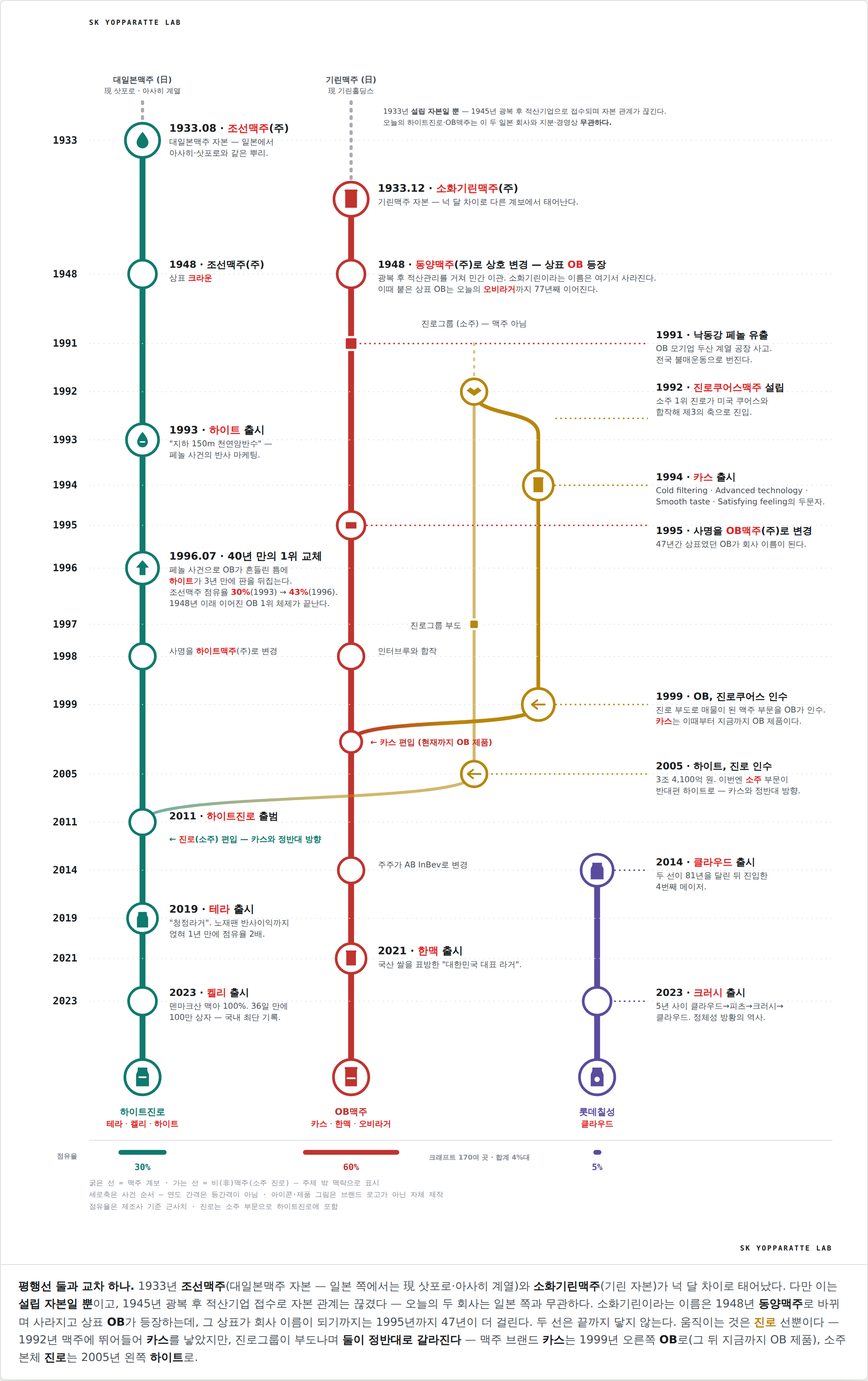
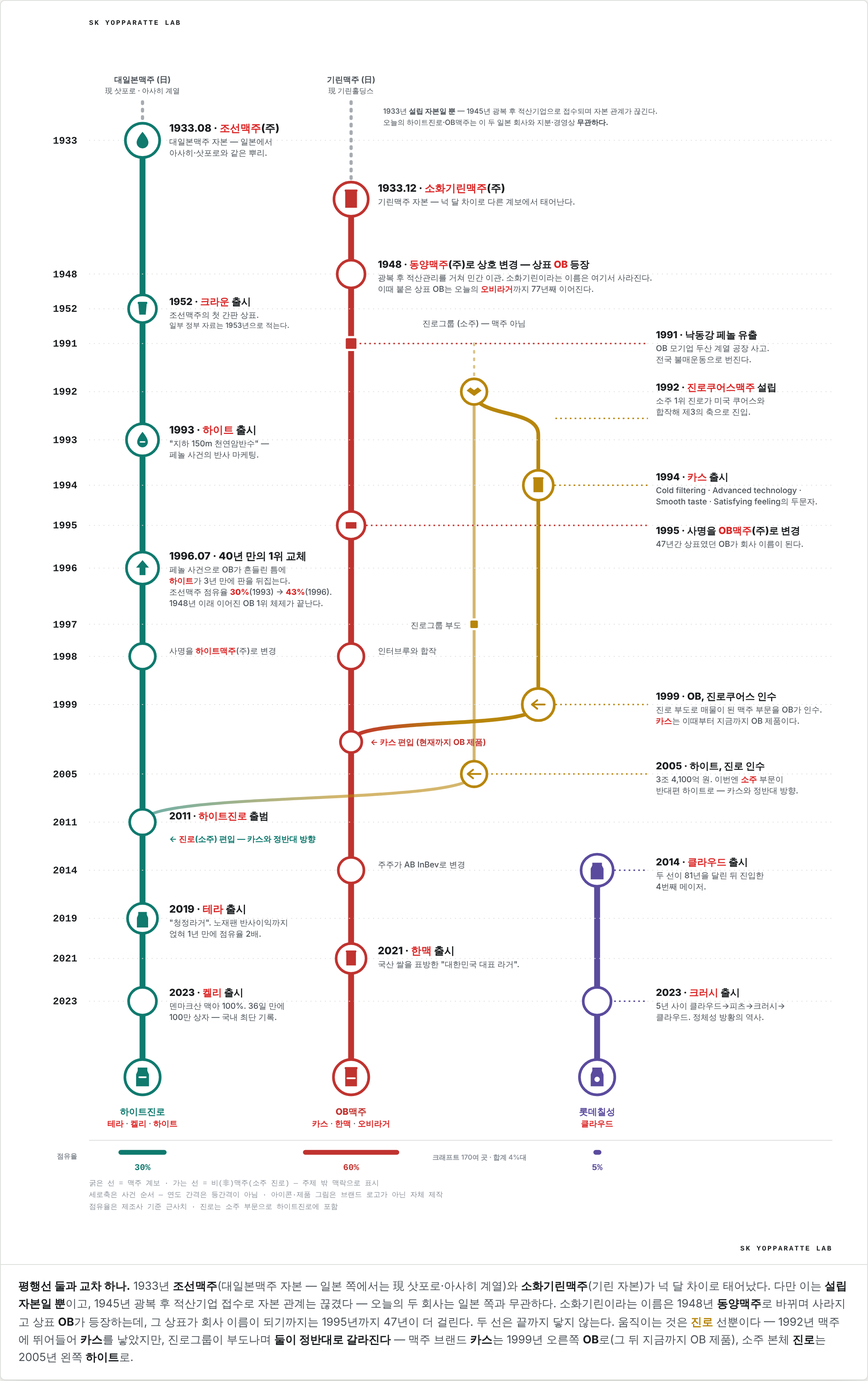
교차검증(2026-11-20) 반영: 오리온 인수 주체·크라운 연도·스텔라 국내생산 등 정정
필수 수정
- 오리온 2019: '아사히 그룹 홀딩스·노무라 컨소시엄' → 노무라홀딩스·칼라일 공동 인수,
  아사히와는 자본·유통 제휴만 유지, 2025.9 도쿄증시 프라임 상장. 오리온→아사히
  흡수를 뜻하던 화살표 삭제, 점유율 각주의 '아사히 산하' → '독립 법인'
- 스텔라 아르투아: '전환 근거 없음' 정정 처리 철회 → 2022.7 오비맥주 광주공장
  일부 물량 라이선스 생산 확인, 용기·시점별 라벨 확인 필요(검증표 '부분 확인')

권장 보완
- 크라운: 1948 조선맥주 항목에서 분리해 1952 출시 노드로(1953 표기 자료 병기)
- 필스너 우르켈·코젤: '철수' → 기존 수입사 2026.12.31 판매 종료, 재수입 미정
- 삿포로 650ml: 국내 B2B 상품정보 베트남 표기 확인(검증표 '확인')
- 일본 점유율 각주: 2025년 중반 기준, 2025년 말 아사히 사이버 공격 변동 제외

함께 고친 것
- 1977 삿포로 흑라벨 노드의 '샿포로' 오타(U+C0FF) → '삿포로', 우측 끝에 닿던 줄 재배치
- export.mjs가 특정 Chromium 경로를 하드코딩하지 않도록 수정
- SVG·PNG 재생성, 통합본 재조립, 출처 4건 추가

Claude-Session: https://claude.ai/code/session_01KUBqCbH6Pr7kL3zk5exDHD

diff --git a/origin/korea-import-beer.html b/origin/korea-import-beer.html
@@ -121,9 +121,9 @@
   <div class="ovc"><h3>① 국내 라이선스 생산</h3><p class="how">표시사항: 제조원 ○○공장</p>
     <ul><li><b>버드와이저</b> — 오비맥주</li><li><b>호가든</b> — 오비맥주 광주</li><li><b>기린 이치방 시보리 캔</b> — 하이트진로 전주 (2026.10~)</li><li>블루걸 — 처음부터 한국산(역수입)</li></ul></div>
   <div class="ovc imp"><h3>② 해외 완제품 수입</h3><p class="how">표시사항: 원산지 국가명</p>
-    <ul><li>아사히 · 삿포로 · 에비스</li><li>칭따오 · 하얼빈 · 기네스 · 하이네켄</li><li>스텔라 · 코로나 · 미켈롭 울트라 · 산토리</li><li>칼스버그 · 밀러 · 블루문 · 1664</li><li>파울라너 · 에딩거 · <s>필스너 우르켈 · 코젤</s>(연말 철수)</li></ul></div>
+    <ul><li>아사히 · 삿포로 · 에비스</li><li>칭따오 · 하얼빈 · 기네스 · 하이네켄</li><li>스텔라(2022~ 일부 광주 생산 이력) · 코로나 · 미켈롭 울트라 · 산토리</li><li>칼스버그 · 밀러 · 블루문 · 1664</li><li>파울라너 · 에딩거 · 필스너 우르켈 · 코젤(기존 수입사 2026.12.31 판매 종료 예정)</li></ul></div>
   <div class="ovc third"><h3>③ 제3국 생산 수입</h3><p class="how">수입품이지만 브랜드 본국산이 아님</p>
-    <ul><li><b>1664 블랑</b> — 폴란드</li><li><b>삿포로 650ml</b> — 베트남 공장 생산(국내분은 라벨 확인)</li><li>중국 ODM 저가 수입맥주</li></ul></div>
+    <ul><li><b>1664 블랑</b> — 폴란드</li><li><b>삿포로 650ml</b> — 베트남(국내 B2B 상품정보 표기)</li><li>중국 ODM 저가 수입맥주</li></ul></div>
 </div>
 
 
@@ -176,8 +176,8 @@
   <div class="brand imp"><h3>하이네켄 <span class="who">· 하이네켄코리아</span></h3>
     <ul><li>국내 편의점 캔의 원산지가 네덜란드로 표기된 사례가 있다. 베트남 생산분이 들어오는지는 확인하지 못했다.</li></ul></div>
   <div class="brand imp"><h3>스텔라 아르투아 <span class="who">· 오비맥주</span></h3>
-    <ul><li>2025년 11월 보도에서도 '오비맥주가 수입·유통하는 브랜드'로 소개됐다.</li>
-    <li>국내 생산은 2020년에 검토한다는 보도만 있었고, 실제로 전환했다는 근거는 찾지 못했다.</li></ul></div>
+    <ul><li>2022년 7월 오비맥주가 <b>광주공장</b>에서 일부 물량(당시 국내 물량의 약 40%)을 라이선스 생산하기 시작했다.</li>
+    <li>2025년 11월 보도에서는 '오비맥주가 수입·유통하는 브랜드'로도 소개됐다. 같은 브랜드에 국내 생산분과 수입분이 섞여 있을 수 있어 용기·유통 시점별로 라벨을 확인해야 한다.</li></ul></div>
   <div class="brand imp"><h3>오비맥주 수입 포트폴리오</h3>
     <ul><li>코로나, 미켈롭 울트라, 산토리 프리미엄 몰츠, 구스아일랜드, 하얼빈, 레페 등이 있다.</li>
     <li>미켈롭 울트라는 2024년 골프장 한정 판매로 시작해 같은 해 이마트로 판로를 넓혔다.</li></ul></div>
@@ -190,8 +190,9 @@
     <li><b>에딩거</b>: 아영FBC가 수입한다(2023년 기준).</li></ul></div>
 </div>
 <div class="note alert">
-  <b>철수 예정 — 필스너 우르켈 · 코젤.</b> 아사히그룹 계열 수입사 <b>에이이브랜드코리아</b>가
-  다음 달 31일을 끝으로 두 브랜드의 국내 판매를 종료한다고 2026년 11월 6일 보도됐다. 보도 날짜로 보면 2026년 12월 31일이다.
+  <b>기존 수입사 판매 종료 예정 — 필스너 우르켈 · 코젤.</b> 아사히그룹 계열 수입사 <b>에이이브랜드코리아</b>가
+  <b>2026년 12월 31일</b>을 끝으로 두 브랜드의 판매를 종료한다고 2026년 11월 6일 보도됐다.
+  브랜드의 영구 철수가 아니라 <b>기존 수입사의 공급 중단</b>이며, 다른 수입사를 통한 재수입 여부는 아직 정해지지 않았다.
   편의점에서는 재고 정리 할인이 진행 중이다.
 </div>
 
@@ -202,7 +203,7 @@
     <li>베트남·중국 생산분이 국내에 들어온다는 근거는 찾지 못했다.</li></ul></div>
   <div class="brand third"><h3>삿포로 실버컵 650ml <span class="who">· 일본 브랜드</span></h3>
     <ul><li>삿포로 베트남 공장(롱안성 득호아)이 650ml 캔을 생산한다. 싱가포르, 호주, 미국 판매분의 원산지가 베트남으로 확인된다.</li>
-    <li>국내 유통분도 그럴 가능성이 높다. 다만 이번에 국내 라벨로 직접 확인하지는 못했다.</li></ul></div>
+    <li>국내 주류 B2B 유통 플랫폼 상품 정보에서도 원산지가 <b>베트남</b>으로 표기돼 있다. 다만 유통 시점·물량별로 라벨 확인을 권한다.</li></ul></div>
   <div class="brand third"><h3>ODM 저가 수입맥주</h3>
     <ul><li>제주맥주 대표는 "외산 맥주들이 중국에서 ODM 방식으로 생산돼 국내에 싸게 공급되고 있다"고 말했다(2026년 2월). 특정 브랜드를 지목하지는 않았다.</li></ul></div>
   <div class="brand third"><h3>스텔라의 본국 이탈</h3>
@@ -243,16 +244,16 @@
 <tr><td><b>버드와이저</b> 330병·355·500캔 국내 생산</td><td><span class="tag v-part">부분 확인</span></td><td>355·500 캔, 500 병, 생맥주는 국내 생산으로 확인된다. '330ml 병'은 근거를 찾지 못했다.</td></tr>
 <tr><td>버드와이저 473·740ml 미국 직수입</td><td><span class="tag v-unk">미확인</span></td><td>2017~2019년에 캔을 미국에서 수입한 이력은 있다. 현재 제조국은 라벨을 봐야 한다.</td></tr>
 <tr><td><b>호가든</b> 오리지널 국내, 로제 등 직수입</td><td><span class="tag v-part">부분 확인</span></td><td>오리지널 국내 생산은 확인된다. 로제 등 특수 라인업이 지금도 수입인지는 확인하지 못했다.</td></tr>
-<tr><td><b>스텔라</b> 2022년부터 500캔 광주공장 생산</td><td><span class="tag v-fix">정정</span></td><td>전환했다는 보도를 찾지 못했다. 2025년 11월에도 '수입·유통 브랜드'로 소개됐다. 2020년의 '검토' 보도만 있다.</td></tr>
+<tr><td><b>스텔라</b> 2022년부터 500캔 광주공장 생산</td><td><span class="tag v-part">부분 확인</span></td><td>2022년 7월 오비맥주 광주공장이 일부 물량(당시 국내 물량의 약 40%) 라이선스 생산을 시작한 것은 확인된다. 2025년 11월 보도에서는 '수입·유통 브랜드'로도 소개돼, 용기·유통 시점별 라벨 확인이 필요하다. '500캔'으로 특정한 근거는 찾지 못했다.</td></tr>
 <tr><td>스텔라 740ml 미국 공장분</td><td><span class="tag v-unk">미확인</span></td><td>미국 내 생산 이전(2021)은 사실이다. 그 물량이 한국에 오는지는 확인하지 못했다.</td></tr>
 <tr><td><b>구스 아일랜드</b> IPA·세션 IPA 국내 생산</td><td><span class="tag v-unk">미확인</span></td><td>오비맥주 자회사가 운영하는 '구스아일랜드 브루하우스 서울'이 2019년 구스 IPA 캔을, 2020년 덕덕구스 세션 IPA(매장 레시피)를 출시했다. 생산지 표기는 확인하지 못했다.</td></tr>
 <tr><td><b>벡스</b> 라이선스·수입 병행</td><td><span class="tag v-unk">미확인</span></td><td>국내 생산 근거를 찾지 못했다.</td></tr>
 <tr><td><b>1664 블랑</b> 폴란드·베트남·중국 생산, 하이트진로 유통</td><td><span class="tag v-part">부분 확인</span></td><td>폴란드와 하이트진로 유통(2013~)은 확인된다. 베트남·중국은 근거가 없다.</td></tr>
 <tr><td><b>블루문</b> 베트남산 주력, 골든블루 유통</td><td><span class="tag v-part">부분 확인</span></td><td>골든블루 인터내셔널 유통(2021.11~)은 확인된다. 베트남 생산은 근거가 없다.</td></tr>
-<tr><td><b>삿포로</b> 650ml 실버컵 베트남산</td><td><span class="tag v-part">부분 확인</span></td><td>베트남 공장의 650ml 생산은 확인된다. 국내 유통분의 라벨은 확인하지 못했다.</td></tr>
+<tr><td><b>삿포로</b> 650ml 실버컵 베트남산</td><td><span class="tag v-ok">확인</span></td><td>베트남 공장의 650ml 생산에 더해, 국내 B2B 유통 플랫폼 상품 정보에 원산지 베트남이 표기돼 있다. 유통 시점·물량별 라벨 확인은 권장.</td></tr>
 <tr><td><b>하이네켄 · 타이거 · 산미구엘</b> 베트남 거점분</td><td><span class="tag v-unk">미확인</span></td><td>하이네켄은 국내 캔의 원산지가 네덜란드로 표기된 사례가 있다.</td></tr>
 <tr><td><b>아사히</b> 일본 본토 직수입</td><td><span class="tag v-ok">확인</span></td><td>생맥주캔은 하카타 공장 생산분이라고 알려져 있다.</td></tr>
-<tr><td><b>필스너 우르켈 · 코젤</b> 수입사 비어케이</td><td><span class="tag v-fix">정정</span></td><td>수입사는 <b>에이이브랜드코리아</b>(아사히 계열)다. <b>2026년 12월 31일에 국내 판매를 종료할 예정</b>이다.</td></tr>
+<tr><td><b>필스너 우르켈 · 코젤</b> 수입사 비어케이</td><td><span class="tag v-fix">정정</span></td><td>수입사는 <b>에이이브랜드코리아</b>(아사히 계열)다. 기존 수입사가 <b>2026년 12월 31일 판매를 종료할 예정</b>이다. 브랜드 철수가 아니라 수입사 공급 중단이며, 타사 재수입 여부는 미정이다.</td></tr>
 <tr><td><b>파울라너</b> 하이트진로</td><td><span class="tag v-fix">정정</span></td><td>2026년 1월 1일부터 <b>하이네켄코리아</b>가 유통한다.</td></tr>
 <tr><td><b>에딩거</b> 비어케이</td><td><span class="tag v-fix">정정</span></td><td>수입사는 <b>아영FBC</b>다(2023년 기준).</td></tr>
 <tr><td><b>칭따오</b> 비어케이, 중국 직수입</td><td><span class="tag v-ok">확인</span></td><td>—</td></tr>
@@ -279,6 +280,10 @@
   <li>나무위키, 「버드와이저」 — https://namu.wiki/w/버드와이저</li>
   <li>위키트리, 스텔라 아르투아 '퓨어 골드 바' 2026.11 — https://www.wikitree.co.kr/articles/1173316</li>
   <li>위키트리, 필스너 우르켈·코젤 국내 판매 종료 2026.11.06 — https://www.wikitree.co.kr/articles/1172417</li>
+  <li>뉴스1, 필스너 우르켈·코젤 기존 수입사 판매 종료 — https://www.news1.kr/industry/distribution/6353159</li>
+  <li>뉴데일리 경제, 오비맥주 스텔라 아르투아 광주공장 생산 2022.07 — https://biz.newdaily.co.kr/site/data/html/2022/07/11/2022071100041.html</li>
+  <li>CEO스코어데일리, 스텔라 아르투아 국내 생산 2022.07 — https://www.ceoscoredaily.com/page/view/2022072817122398124</li>
+  <li>벨루가(B2B), 삿포로 프리미엄 실버컵 650ml 상품 정보(원산지 베트남) — https://business.veluga.kr/drink/19897/23080/</li>
   <li>PR Newswire/더팀스, 파울라너 한국 유통사 하이네켄코리아로 변경 2025.11.25 — https://www.theteams.kr/news/detail/5061</li>
   <li>뉴스핌, 골든블루 밀러·블루문 독점 판매 2021.11 — https://newspim.com/news/view/20211123000716</li>
   <li>메트로신문, 하이트진로 1664블랑 생맥주 판로 확대 2019.05 — https://www.metroseoul.co.kr/article/2019053000074</li>

diff --git a/genealogy/beer-genealogy.html b/genealogy/beer-genealogy.html
@@ -98,12 +98,7 @@
   <p class="lead">여섯 혈통의 탄생, 1906년의 거대 합병, 1949년 GHQ의 강제 분할, 그리고 후발 주자의 합류.
   선이 모이면 합병, 갈라지면 분할이다. 각 선 위에는 그 회사를 끌어올린 <b>기념비적 제품 출시</b>를, 맨 아래에는 오늘의 대표 제품과 <b>맛의 결</b>, 시장 점유율을 두었다.</p>
   <figure><div class="canvas">
-<svg viewBox="0 -46 1340 2435" role="img" aria-label="일본 맥주 6개 회사 계보도. 기린은 1870년부터 끊기지 않는 독자 노선을 유지한다. 삿포로·에비스·아사히는 1906년 대일본맥주로 합병되어 회색 줄기가 되었다가 1949년 GHQ 명령으로 삿포로와 아사히 둘로 분할된다. 에비스는 1943년 상표가 소멸했다가 1971년 삿포로 산하로 부활한다. 산토리는 1963년, 오리온은 1957년에 합류하며 2019년 오리온은 아사히 산하로 들어간다. 여섯 계보는 각자의 대표 제품으로 이어진다.">
-<defs>
-  <marker id="ar" viewBox="0 0 10 10" refX="8" refY="5" markerWidth="6" markerHeight="6" orient="auto-start-reverse">
-    <path d="M0 1 L9 5 L0 9 z" fill="var(--orion)"/>
-  </marker>
-</defs>
+<svg viewBox="0 -46 1340 2435" role="img" aria-label="일본 맥주 6개 회사 계보도. 기린은 1870년부터 끊기지 않는 독자 노선을 유지한다. 삿포로·에비스·아사히는 1906년 대일본맥주로 합병되어 회색 줄기가 되었다가 1949년 GHQ 명령으로 삿포로와 아사히 둘로 분할된다. 에비스는 1943년 상표가 소멸했다가 1971년 삿포로 산하로 부활한다. 산토리는 1963년, 오리온은 1957년에 합류한다. 오리온은 2019년 노무라홀딩스·칼라일 그룹에 매각되고 2025년 상장해 독립 법인으로 남는다. 여섯 계보는 각자의 대표 제품으로 이어진다.">
 
 <!-- ═══ 리본 ═══ -->
 <!-- 기린 : 끊기지 않는 단일선 -->
@@ -125,8 +120,6 @@
 <!-- 오리온 -->
 <path class="rib o" d="M980 1080 L980 2010"/>
 <!-- 2019 지분 인수 -->
-<path d="M968 1910 L706 1910" fill="none" stroke="var(--orion)" stroke-width="3.5"
-      stroke-dasharray="2 9" stroke-linecap="round" marker-end="url(#ar)"/>
 
 <!-- ═══ 연도 눈금 ═══ -->
 <line class="grid" x1="150" y1="200" x2="1310" y2="200"/><text class="yr" x="128" y="206" text-anchor="end">1870</text>
@@ -260,10 +253,10 @@
   <rect x="-8" y="-3" width="16" height="8" fill="var(--panel)"/>
 </g>
 <path d="M462 1470 H1065" stroke="var(--sapporo)" stroke-width="2.4" stroke-dasharray="3 6" fill="none"/>
-<text class="hd fs" x="1075" y="1450" style="font-size:16.5px">1977 · 샿포로 흑라벨</text>
-<text class="bd" x="1075" y="1470">「샿포로 びん生」으로 발매. 검은 라벨에서</text>
-<text class="bd" x="1075" y="1488">온 애칭 ‘쿠로라벨’이 굳어져 1989년</text>
-<text class="bd" x="1075" y="1506">정식 상품명이 된다.</text>
+<text class="hd fs" x="1075" y="1450" style="font-size:16.5px">1977 · 삿포로 흑라벨</text>
+<text class="bd" x="1075" y="1470">「삿포로 びん生」으로 발매.</text>
+<text class="bd" x="1075" y="1488">검은 라벨에서 온 애칭 ‘쿠로라벨’이</text>
+<text class="bd" x="1075" y="1506">굳어져 1989년 정식 상품명이 된다.</text>
 
 <!-- ═══ 1987 수퍼드라이 ═══ -->
 <circle class="disc" cx="690" cy="1580" r="26" stroke="var(--asahi)"/>
@@ -302,15 +295,15 @@
 <text class="bd" x="1075" y="1800">맥아 100% 프리미엄 노선. 가장 늦게</text>
 <text class="bd" x="1075" y="1818">합류한 산토리가 고급 시장을 파고든다.</text>
 
-<!-- ═══ 2019 오리온 인수 : 악수 ═══ -->
+<!-- ═══ 2019 오리온 매각 : 악수 ═══ -->
 <circle class="disc" cx="980" cy="1910" r="26" stroke="var(--orion)"/>
 <g transform="translate(980,1910)">
   <path d="M-13 -2 l7 -6 6 5 6 -5 7 6 -13 10 z" fill="var(--orion)"/>
 </g>
-<text class="hd fo" x="1075" y="1894" style="font-size:16.5px">2019 · 아사히–오리온</text>
-<text class="bd" x="1075" y="1914">아사히 그룹 홀딩스·노무라</text>
-<text class="bd" x="1075" y="1932">컨소시엄이 오리온 지분 인수.</text>
-<text class="bd" x="1075" y="1950">법인은 존속한다.</text>
+<text class="hd fo" x="1075" y="1894" style="font-size:16.5px">2019 · 오리온 매각</text>
+<text class="bd" x="1075" y="1914">노무라홀딩스·칼라일이 공동 인수.</text>
+<text class="bd" x="1075" y="1932">아사히와는 자본·유통 제휴만 유지.</text>
+<text class="bd" x="1075" y="1950">2025년 9월 도쿄증시 프라임 상장.</text>
 
 <!-- ═══ 하단 : 대표 제품 ═══ -->
 <circle class="disc" cx="230" cy="2041" r="33" stroke="var(--kirin)"/>
@@ -373,7 +366,8 @@
 <rect x="978.7" y="2233" width="2.6" height="9" rx="4.5" fill="var(--orion)"/>
 <text class="shp fo" x="980" y="2269" text-anchor="middle">1%</text>
 <text class="axn" x="150" y="2309">세로축은 사건 순서 — 연도 간격은 등간격이 아님 · 아이콘·제품 그림은 브랜드 로고가 아닌 자체 제작</text>
-<text class="axn" x="150" y="2329">점유율은 맥주계 음료(ビール類) 기준 근사치 · 에비스는 삿포로 실적에 포함 · 오리온은 아사히 산하지만 별도 법인</text>
+<text class="axn" x="150" y="2329">점유율은 맥주계 음료(ビール類) 기준 2025년 중반 근사치 · 에비스는 삿포로 실적에 포함</text>
+<text class="axn" x="150" y="2349">2025년 말 아사히 사이버 공격에 따른 일시적 변동 제외 · 오리온은 독립 법인(아사히와 자본·유통 제휴, 2025년 상장)</text>
 
 <text class="svglab" x="150" y="-16" style="font-size:13px">SK YOPPARATTE LAB</text>
 <text class="svglab" x="1310" y="2379" text-anchor="end" style="font-size:13px">SK YOPPARATTE LAB</text>
@@ -407,7 +401,7 @@
   <p class="lead">서로 다른 일본 자본에서 출발한 두 축은 90년간 한 번도 만나지 않는다.
   움직이는 것은 중간에 끼어든 제3의 선, <b>진로</b>뿐이다.</p>
   <figure><div class="canvas">
-<svg viewBox="0 -46 1590 2332" role="img" aria-label="한국 맥주 계보도. 1933년 조선맥주와 소화기린맥주가 서로 다른 일본 자본으로 설립되고, 1948년 소화기린은 동양맥주로 바뀌며 상표 OB가 등장한 뒤 1995년 사명까지 OB맥주가 된다. 두 선은 90년간 만나지 않는다. 1992년 진로쿠어스가 세워져 1994년 카스를 내지만 1999년 카스는 OB로, 2005년 진로 자신은 하이트로 넘어가며 두 선이 교차한다. 롯데는 2014년 클라우드로 진입한다.">
+<svg viewBox="0 -46 1590 2332" role="img" aria-label="한국 맥주 계보도. 1933년 조선맥주와 소화기린맥주가 서로 다른 일본 자본으로 설립되고, 1948년 소화기린은 동양맥주로 바뀌며 상표 OB가 등장한 뒤 1995년 사명까지 OB맥주가 된다. 조선맥주는 1952년 크라운을 출시한다. 두 선은 90년간 만나지 않는다. 1992년 진로쿠어스가 세워져 1994년 카스를 내지만 1999년 카스는 OB로, 2005년 진로 자신은 하이트로 넘어가며 두 선이 교차한다. 롯데는 2014년 클라우드로 진입한다.">
 <defs>
 <linearGradient id="g99" x1="990" y1="0" x2="640" y2="0" gradientUnits="userSpaceOnUse">
   <stop offset="0" stop-color="var(--jinro)"/><stop offset="0.45" stop-color="var(--jinro)"/><stop offset="1" stop-color="var(--ob)"/>
@@ -433,6 +427,7 @@
 <path class="rib t" d="M1100 1565 L1100 1920"/>
 <line class="grid" x1="150" y1="200" x2="1540" y2="200"/><text class="yr" x="128" y="206" text-anchor="end">1933</text>
 <line class="grid" x1="150" y1="450" x2="1540" y2="450"/><text class="yr" x="128" y="456" text-anchor="end">1948</text>
+<line class="grid" x1="150" y1="515" x2="1540" y2="515"/><text class="yr" x="128" y="521" text-anchor="end">1952</text>
 <line class="grid" x1="150" y1="580" x2="1540" y2="580"/><text class="yr" x="128" y="586" text-anchor="end">1991</text>
 <line class="grid" x1="150" y1="670" x2="1540" y2="670"/><text class="yr" x="128" y="676" text-anchor="end">1992</text>
 <line class="grid" x1="150" y1="760" x2="1540" y2="760"/><text class="yr" x="128" y="766" text-anchor="end">1993</text>
@@ -460,10 +455,12 @@
 <text class="hd" x="690" y="296">1933.12 · <tspan class="pr">소화기린맥주</tspan>(주)</text>
 <text class="bd" x="690" y="320">기린맥주 자본 — 넉 달 차이로 다른 계보에서 태어난다.</text>
 
-<circle class="disc" cx="250" cy="450" r="26" stroke="var(--hite)"/>
 <circle class="disc" cx="640" cy="450" r="26" stroke="var(--ob)"/>
-<text class="hd" x="300" y="438" style="font-size:18.2px">1948 · 조선맥주(주)</text>
-<text class="bd" x="300" y="462">상표 <tspan class="pr">크라운</tspan></text>
+<circle class="disc" cx="250" cy="515" r="26" stroke="var(--hite)"/>
+<g transform="translate(250,515)"><path d="M-8 -11 h16 l-2 22 h-12 z" fill="var(--hite)"/><rect x="-9" y="-13" width="18" height="4" rx="1.5" fill="var(--hite)"/></g>
+<text class="hd" x="300" y="508" style="font-size:18.2px">1952 · <tspan class="pr">크라운</tspan> 출시</text>
+<text class="bd" x="300" y="532">조선맥주의 첫 간판 상표.</text>
+<text class="bd" x="300" y="551" style="font-size:13.5px">일부 정부 자료는 1953년으로 적는다.</text>
 <text class="hd" x="690" y="438" style="font-size:18.2px">1948 · <tspan class="pr">동양맥주</tspan>(주)로 상호 변경 — 상표 <tspan class="pr">OB</tspan> 등장</text>
 <text class="bd" x="690" y="462">광복 후 적산관리를 거쳐 민간 이관. 소화기린이라는 이름은 여기서 사라진다.</text>
 <text class="bd" x="690" y="483">이때 붙은 상표 OB는 오늘의 <tspan class="pr">오비라거</tspan>까지 77년째 이어진다.</text>

diff --git a/genealogy/jp-infographic.html b/genealogy/jp-infographic.html
@@ -61,12 +61,7 @@
 
 <figure>
 <div class="canvas">
-<svg viewBox="0 -46 1340 2435" role="img" aria-label="일본 맥주 6개 회사 계보도. 기린은 1870년부터 끊기지 않는 독자 노선을 유지한다. 삿포로·에비스·아사히는 1906년 대일본맥주로 합병되어 회색 줄기가 되었다가 1949년 GHQ 명령으로 삿포로와 아사히 둘로 분할된다. 에비스는 1943년 상표가 소멸했다가 1971년 삿포로 산하로 부활한다. 산토리는 1963년, 오리온은 1957년에 합류하며 2019년 오리온은 아사히 산하로 들어간다. 여섯 계보는 각자의 대표 제품으로 이어진다.">
-<defs>
-  <marker id="ar" viewBox="0 0 10 10" refX="8" refY="5" markerWidth="6" markerHeight="6" orient="auto-start-reverse">
-    <path d="M0 1 L9 5 L0 9 z" fill="var(--orion)"/>
-  </marker>
-</defs>
+<svg viewBox="0 -46 1340 2435" role="img" aria-label="일본 맥주 6개 회사 계보도. 기린은 1870년부터 끊기지 않는 독자 노선을 유지한다. 삿포로·에비스·아사히는 1906년 대일본맥주로 합병되어 회색 줄기가 되었다가 1949년 GHQ 명령으로 삿포로와 아사히 둘로 분할된다. 에비스는 1943년 상표가 소멸했다가 1971년 삿포로 산하로 부활한다. 산토리는 1963년, 오리온은 1957년에 합류한다. 오리온은 2019년 노무라홀딩스·칼라일 그룹에 매각되고 2025년 상장해 독립 법인으로 남는다. 여섯 계보는 각자의 대표 제품으로 이어진다.">
 
 <!-- ═══ 리본 ═══ -->
 <!-- 기린 : 끊기지 않는 단일선 -->
@@ -88,8 +83,6 @@
 <!-- 오리온 -->
 <path class="rib o" d="M980 1080 L980 2010"/>
 <!-- 2019 지분 인수 -->
-<path d="M968 1910 L706 1910" fill="none" stroke="var(--orion)" stroke-width="3.5"
-      stroke-dasharray="2 9" stroke-linecap="round" marker-end="url(#ar)"/>
 
 <!-- ═══ 연도 눈금 ═══ -->
 <line class="grid" x1="150" y1="200" x2="1310" y2="200"/><text class="yr" x="128" y="206" text-anchor="end">1870</text>
@@ -223,10 +216,10 @@
   <rect x="-8" y="-3" width="16" height="8" fill="var(--panel)"/>
 </g>
 <path d="M462 1470 H1065" stroke="var(--sapporo)" stroke-width="2.4" stroke-dasharray="3 6" fill="none"/>
-<text class="hd fs" x="1075" y="1450" style="font-size:16.5px">1977 · 샿포로 흑라벨</text>
-<text class="bd" x="1075" y="1470">「샿포로 びん生」으로 발매. 검은 라벨에서</text>
-<text class="bd" x="1075" y="1488">온 애칭 ‘쿠로라벨’이 굳어져 1989년</text>
-<text class="bd" x="1075" y="1506">정식 상품명이 된다.</text>
+<text class="hd fs" x="1075" y="1450" style="font-size:16.5px">1977 · 삿포로 흑라벨</text>
+<text class="bd" x="1075" y="1470">「삿포로 びん生」으로 발매.</text>
+<text class="bd" x="1075" y="1488">검은 라벨에서 온 애칭 ‘쿠로라벨’이</text>
+<text class="bd" x="1075" y="1506">굳어져 1989년 정식 상품명이 된다.</text>
 
 <!-- ═══ 1987 수퍼드라이 ═══ -->
 <circle class="disc" cx="690" cy="1580" r="26" stroke="var(--asahi)"/>
@@ -265,15 +258,15 @@
 <text class="bd" x="1075" y="1800">맥아 100% 프리미엄 노선. 가장 늦게</text>
 <text class="bd" x="1075" y="1818">합류한 산토리가 고급 시장을 파고든다.</text>
 
-<!-- ═══ 2019 오리온 인수 : 악수 ═══ -->
+<!-- ═══ 2019 오리온 매각 : 악수 ═══ -->
 <circle class="disc" cx="980" cy="1910" r="26" stroke="var(--orion)"/>
 <g transform="translate(980,1910)">
   <path d="M-13 -2 l7 -6 6 5 6 -5 7 6 -13 10 z" fill="var(--orion)"/>
 </g>
-<text class="hd fo" x="1075" y="1894" style="font-size:16.5px">2019 · 아사히–오리온</text>
-<text class="bd" x="1075" y="1914">아사히 그룹 홀딩스·노무라</text>
-<text class="bd" x="1075" y="1932">컨소시엄이 오리온 지분 인수.</text>
-<text class="bd" x="1075" y="1950">법인은 존속한다.</text>
+<text class="hd fo" x="1075" y="1894" style="font-size:16.5px">2019 · 오리온 매각</text>
+<text class="bd" x="1075" y="1914">노무라홀딩스·칼라일이 공동 인수.</text>
+<text class="bd" x="1075" y="1932">아사히와는 자본·유통 제휴만 유지.</text>
+<text class="bd" x="1075" y="1950">2025년 9월 도쿄증시 프라임 상장.</text>
 
 <!-- ═══ 하단 : 대표 제품 ═══ -->
 <circle class="disc" cx="230" cy="2041" r="33" stroke="var(--kirin)"/>
@@ -336,7 +329,8 @@
 <rect x="978.7" y="2233" width="2.6" height="9" rx="4.5" fill="var(--orion)"/>
 <text class="shp fo" x="980" y="2269" text-anchor="middle">1%</text>
 <text class="axn" x="150" y="2309">세로축은 사건 순서 — 연도 간격은 등간격이 아님 · 아이콘·제품 그림은 브랜드 로고가 아닌 자체 제작</text>
-<text class="axn" x="150" y="2329">점유율은 맥주계 음료(ビール類) 기준 근사치 · 에비스는 삿포로 실적에 포함 · 오리온은 아사히 산하지만 별도 법인</text>
+<text class="axn" x="150" y="2329">점유율은 맥주계 음료(ビール類) 기준 2025년 중반 근사치 · 에비스는 삿포로 실적에 포함</text>
+<text class="axn" x="150" y="2349">2025년 말 아사히 사이버 공격에 따른 일시적 변동 제외 · 오리온은 독립 법인(아사히와 자본·유통 제휴, 2025년 상장)</text>
 
 <text class="svglab" x="150" y="-16" style="font-size:13px">SK YOPPARATTE LAB</text>
 <text class="svglab" x="1310" y="2379" text-anchor="end" style="font-size:13px">SK YOPPARATTE LAB</text>

diff --git a/genealogy/kr-infographic.html b/genealogy/kr-infographic.html
@@ -58,7 +58,7 @@
   움직이는 것은 중간에 끼어든 제3의 선뿐이다.</p>
 </header>
 <figure><div class="canvas">
-<svg viewBox="0 -46 1590 2332" role="img" aria-label="한국 맥주 계보도. 1933년 조선맥주와 소화기린맥주가 서로 다른 일본 자본으로 설립되고, 1948년 소화기린은 동양맥주로 바뀌며 상표 OB가 등장한 뒤 1995년 사명까지 OB맥주가 된다. 두 선은 90년간 만나지 않는다. 1992년 진로쿠어스가 세워져 1994년 카스를 내지만 1999년 카스는 OB로, 2005년 진로 자신은 하이트로 넘어가며 두 선이 교차한다. 롯데는 2014년 클라우드로 진입한다.">
+<svg viewBox="0 -46 1590 2332" role="img" aria-label="한국 맥주 계보도. 1933년 조선맥주와 소화기린맥주가 서로 다른 일본 자본으로 설립되고, 1948년 소화기린은 동양맥주로 바뀌며 상표 OB가 등장한 뒤 1995년 사명까지 OB맥주가 된다. 조선맥주는 1952년 크라운을 출시한다. 두 선은 90년간 만나지 않는다. 1992년 진로쿠어스가 세워져 1994년 카스를 내지만 1999년 카스는 OB로, 2005년 진로 자신은 하이트로 넘어가며 두 선이 교차한다. 롯데는 2014년 클라우드로 진입한다.">
 <defs>
 <linearGradient id="g99" x1="990" y1="0" x2="640" y2="0" gradientUnits="userSpaceOnUse">
   <stop offset="0" stop-color="var(--jinro)"/><stop offset="0.45" stop-color="var(--jinro)"/><stop offset="1" stop-color="var(--ob)"/>
@@ -84,6 +84,7 @@
 <path class="rib t" d="M1100 1565 L1100 1920"/>
 <line class="grid" x1="150" y1="200" x2="1540" y2="200"/><text class="yr" x="128" y="206" text-anchor="end">1933</text>
 <line class="grid" x1="150" y1="450" x2="1540" y2="450"/><text class="yr" x="128" y="456" text-anchor="end">1948</text>
+<line class="grid" x1="150" y1="515" x2="1540" y2="515"/><text class="yr" x="128" y="521" text-anchor="end">1952</text>
 <line class="grid" x1="150" y1="580" x2="1540" y2="580"/><text class="yr" x="128" y="586" text-anchor="end">1991</text>
 <line class="grid" x1="150" y1="670" x2="1540" y2="670"/><text class="yr" x="128" y="676" text-anchor="end">1992</text>
 <line class="grid" x1="150" y1="760" x2="1540" y2="760"/><text class="yr" x="128" y="766" text-anchor="end">1993</text>
@@ -111,10 +112,12 @@
 <text class="hd" x="690" y="296">1933.12 · <tspan class="pr">소화기린맥주</tspan>(주)</text>
 <text class="bd" x="690" y="320">기린맥주 자본 — 넉 달 차이로 다른 계보에서 태어난다.</text>
 
-<circle class="disc" cx="250" cy="450" r="26" stroke="var(--hite)"/>
 <circle class="disc" cx="640" cy="450" r="26" stroke="var(--ob)"/>
-<text class="hd" x="300" y="438" style="font-size:18.2px">1948 · 조선맥주(주)</text>
-<text class="bd" x="300" y="462">상표 <tspan class="pr">크라운</tspan></text>
+<circle class="disc" cx="250" cy="515" r="26" stroke="var(--hite)"/>
+<g transform="translate(250,515)"><path d="M-8 -11 h16 l-2 22 h-12 z" fill="var(--hite)"/><rect x="-9" y="-13" width="18" height="4" rx="1.5" fill="var(--hite)"/></g>
+<text class="hd" x="300" y="508" style="font-size:18.2px">1952 · <tspan class="pr">크라운</tspan> 출시</text>
+<text class="bd" x="300" y="532">조선맥주의 첫 간판 상표.</text>
+<text class="bd" x="300" y="551" style="font-size:13.5px">일부 정부 자료는 1953년으로 적는다.</text>
 <text class="hd" x="690" y="438" style="font-size:18.2px">1948 · <tspan class="pr">동양맥주</tspan>(주)로 상호 변경 — 상표 <tspan class="pr">OB</tspan> 등장</text>
 <text class="bd" x="690" y="462">광복 후 적산관리를 거쳐 민간 이관. 소화기린이라는 이름은 여기서 사라진다.</text>
 <text class="bd" x="690" y="483">이때 붙은 상표 OB는 오늘의 <tspan class="pr">오비라거</tspan>까지 77년째 이어진다.</text>

diff --git a/index.html b/index.html
@@ -131,7 +131,7 @@
       <h3>수입맥주, 실제로 어디서 만드나</h3>
       <p class="yrs">2026.11 기준 · 국내 라이선스 vs 직수입 vs 제3국 생산</p>
       <p>버드와이저·호가든은 광주, <b>기린 이치방 시보리 캔은 2026년 10월부터 전주</b>에서 생산한다.
-      필스너 우르켈·코젤 철수 예정, 파울라너 유통사 변경까지 반영했고, 항목마다 근거의 확인 수준을 표기했다.</p>
+      필스너 우르켈·코젤 기존 수입사 판매 종료(2026.12.31, 재수입 미정), 파울라너 유통사 변경까지 반영했고, 항목마다 근거의 확인 수준을 표기했다.</p>
       <span class="go">보기 →</span>
     </div>
   </a>
